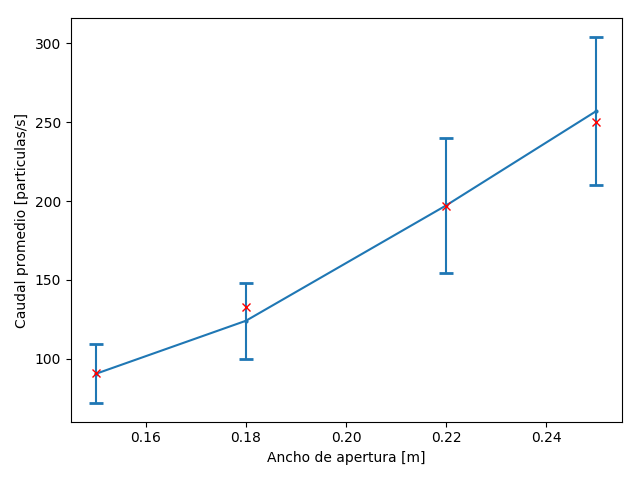
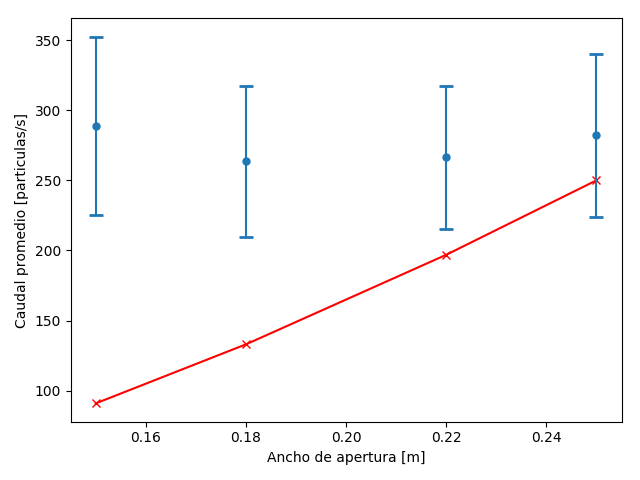
finish visualization

diff --git a/analysis/visualizer.py b/analysis/visualizer.py
@@ -195,14 +195,14 @@ def tp5_e1a():
   bvs = [beverloo(x, 1.84) for x in xs]
   ax.set_ylabel('Caudal promedio [particulas/s]')
   ax.set_xlabel('Ancho de apertura [m]')
-  markers, caps, bars = ax.errorbar(xs, ys, yerr=errs, fmt='o-', markersize=2, zorder=1,capsize=5, capthick=2)
-  ax.plot(xs, bvs, 'rx', markersize=6, zorder=10) 
+  ax.plot(xs, bvs, 'rx-', markersize=6, zorder=1) 
+  markers, caps, bars = ax.errorbar(xs, ys, yerr=errs, fmt='o', markersize=5, zorder=10,capsize=5, capthick=2)
   fig.tight_layout()
   saveFig(fig, '1_1a--adjusted')
   # plt.show()
 
 def tp5_e1b(simulations):
-    dt = 0.005 # seconds
+    dt = 0.05 # seconds
     leftOffset = 0
    
     fig, ax = plt.subplots(figsize=(16,4))
@@ -220,7 +220,7 @@ def tp5_e1b(simulations):
     saveFig(fig, f'1_1b')
 
 def tp5_e1c(simulations):
-    dt = 0.005 # seconds
+    dt = 0.05 # seconds
     leftOffset = 0
    
     fig, ax = plt.subplots(figsize=(16,4))
@@ -231,11 +231,13 @@ def tp5_e1c(simulations):
 
     for simulation in simulations:
       kineticEnergy = calculateKineticEnergy(simulation)
-      xs = [x * dt for x in range(len(kineticEnergy))]
-      ax.plot(xs[leftOffset:], kineticEnergy[leftOffset:], '-', label=f'Kt = {simulation.name} x 10^5', linewidth=1)
-    ax.legend()
+      avg = sum(kineticEnergy) / len(kineticEnergy)
+      print(f'Simulacion: {simulation.name}; Energia: {avg}')
+      # xs = [x * dt for x in range(len(kineticEnergy))]
+      # ax.plot(xs[leftOffset:], kineticEnergy[leftOffset:], '-', label=f'Kt = {simulation.name} x 10^5', linewidth=1)
+    # ax.legend()
 
-    saveFig(fig, f'1_1c')
+    # saveFig(fig, f'1_1c')
 
 
 def run():

diff --git a/analysis/runner.py b/analysis/runner.py
@@ -5,21 +5,21 @@ DEFAULT_OUTPUT = 'ovito_output.xyz'
 EXIT_OUTPUT = 'exit.txt'
 EXIT_FOLDER = 'analysis/exits'
 REPEAT = 1
-TIME = 60 #seconds
+TIME = 10 #seconds
 SIMULATION = 'java -jar target/tpes-1.0-SNAPSHOT.jar < params.txt &'
 # SIMULATION = 'java -jar target/tpes-1.0-SNAPSHOT.jar < params.txt'
 REMOVE = f'rm -fr {RESULTS_FOLDER}'
 
 # create results folder if it does not exist
 # if os.path.exists(RESULTS_FOLDER):
-  # os.system(REMOVE)
+# os.system(REMOVE)
 # os.makedirs(RESULTS_FOLDER)
 
 # Generate multiple simulations
-# VALUES = [0.15, 0.18,  0.22, 0.25]
-VALUES = [1, 2, 3, 4]
+VALUES = [0.15, 0.18,  0.22, 0.25]
+# VALUES = [1, 2, 3, 4]
 for simNum in VALUES:
-  os.system(f'echo "{TIME}\n{simNum}\n2\n{simNum}\n" > params.txt')
+  os.system(f'echo "{TIME}\n{simNum}\n{simNum}\n{2.0}\n" > params.txt')
   MOVE = f'mv {simNum}.xyz {RESULTS_FOLDER}/{simNum}.xyz'
   MOVE_EXIT = f'mv {simNum}.txt {EXIT_FOLDER}/{simNum}.txt'
   RM = f'rm {simNum}-input.txt'

diff --git a/analysis/analyzer.py b/analysis/analyzer.py
@@ -46,7 +46,7 @@ def calculateKineticEnergy(simulation):
   getEnergy = lambda particle: (particle.mass * (particle.getVelocityLength() ** 2)) / 2.0
   kineticsList = [ map(getEnergy, particles) for particles in particlesList]
   kineticsSteps = [sum(kinetics) for kinetics in kineticsList]
-  return kineticsSteps
+  return kineticsSteps[-10:]
 
 def calculateExitsValues(qs):
   lastThird = qs[-len(qs)//3:]

diff --git a/src/main/java/ar/edu/itba/ss/tpe5/GranularManager.java b/src/main/java/ar/edu/itba/ss/tpe5/GranularManager.java
@@ -19,7 +19,7 @@ public class GranularManager {
     public void execute() {
 		List<Particle> previousParticles = initPreviousParticles(grid.getParticles());
 		double accumulatedPrintingTime = 0.0;
-		double printingTimeLimit = 0.005; //s
+		double printingTimeLimit = 0.05; //s
 		
 		while(Double.compare(accumulatedTime, Configuration.getTimeLimit()) <= 0) {
 			grid.calculateAllParticlesNeighbors();

diff --git a/src/main/java/ar/edu/itba/ss/tpe5/Configuration.java b/src/main/java/ar/edu/itba/ss/tpe5/Configuration.java
@@ -60,8 +60,7 @@ public class Configuration {
 	    while(k <=0 ) {
 	    	k = stringToDouble(scanner.nextLine());
 			}
-			HOLE_WIDTH = 0;
-			K_FACTOR = k;
+			K_FACTOR = 2.0;
 			INPUT_FILE_NAME = fileName + "-input.txt";
 			OUTPUT_FILE_NAME = fileName + ".xyz";
 			EXIT_FILE_NAME = fileName + ".txt";
